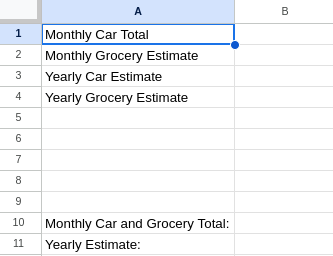
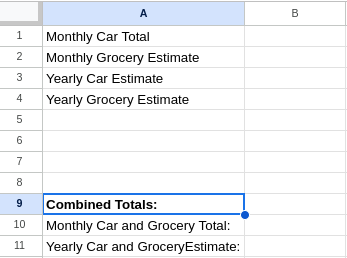
instructions for all three sections complete, updated image

Changed region(s): [[0.0, 0.0, 1.0, 1.0], [0.03, 0.9375, 0.0601, 0.9688]]

diff --git a/content/assignments/assignment0/hello-spreadsheets/_index.md b/content/assignments/assignment0/hello-spreadsheets/_index.md
@@ -13,7 +13,7 @@ Below you will find a screenshot of what the `Car Info` spreadsheet currently lo
 
 ![Image of car info spreadsheet tab within the Hello, Google Sheets! google sheet](pictures/car-info-spreadsheet.png?classes=border)
 
-As mentioned in the [Project Introduction]({{< relref "../project-introduction/_index.md#car-info" >}}) section The `Car Info` tab contains a monthly and yearly estimate for a total of four cars. You can see in cell K11 the insurance cost for the 2023 year was 1400. However insurace premiums have been raised by `12%`. Complete the following steps in order to do so:
+As mentioned in the [Project Introduction]({{% relref "../project-introduction/_index.md#car-info" %}}) section The `Car Info` tab contains a monthly and yearly estimate for a total of four cars. You can see in cell K11 the insurance cost for the 2023 year was 1400. However insurace premiums have been raised by `12%`. Complete the following steps in order to do so:
 
 1. Within cell J12, type in "Insurance Rate Increase".
 1. In cell K12, type in 1.12 to represent the 12% rate increase.
@@ -27,7 +27,7 @@ Below you will find a screenshot of what the `Grocery Info` spreadsheet currentl
 
 ![Image of the grocery info spreadsheet tab within the Hello, Google Sheets! google sheet](pictures/grocery-info-spreadsheet.png?classes=border)
 
-As mentioned in the [Project Introduction]({{< relref "../project-introduction/_index.md#grocery-info" >}}) section The `Grocery Info` tab contains categories for groceries purchased at the store, including a weekly cost breakdown for each category. You will notice in cell J12 and K12 the 2023 inflation rates are referenced. In this scenario, inflation had risen by 5% for the 2023 year. However, in 2024 inflation is now at 8%. You will need to adjust the monthly grocery estimate so that it matches the new rates of inflation.
+As mentioned in the [Project Introduction]({{% relref "../project-introduction/_index.md#grocery-info" %}}) section The `Grocery Info` tab contains categories for groceries purchased at the store, including a weekly cost breakdown for each category. You will notice in cell J12 and K12 the 2023 inflation rates are referenced. In this scenario, inflation had risen by 5% for the 2023 year. However, in 2024 inflation is now at 8%. You will need to adjust the monthly grocery estimate so that it matches the new rates of inflation.
 
 1. Within cell J9, type in "2024 Inflation Rates"
 1. In Cell K9, type in "0.08" to represent the 8% inflation rate.
@@ -43,4 +43,9 @@ Below is an image of the `Overview` spreadsheet.
 
 ![Image of the overview spreadsheet tab within the Hello, Google Sheets! google sheet](pictures/overview-spreadsheet.png?classes=border)
 
-Now that the data within the `car-info` tab and the `grocery-info` tab has been updated we can calculate the monthly, and yearly estimates in the `overview` tab.
+Now that the data within the `car-info` tab and the `grocery-info` tab has been updated we can calculate the monthly and yearly estimates in the `overview` tab.
+
+1. Within cell B2, reference the Total Monthly Estimate from the `Car Info` spreadsheet using the appropriate forumla.
+1. In cell B3, reference the Monthly Grocery Estimate from the `Grocery Info` spreadsheet using the appropriate forumla.
+1. Do the same for the yearly car and grocery totals.
+1. In cells B10, and B11, use the `SUM` of the monthly car and grocery, and yearly car and grocery to get a combined total for each category.
